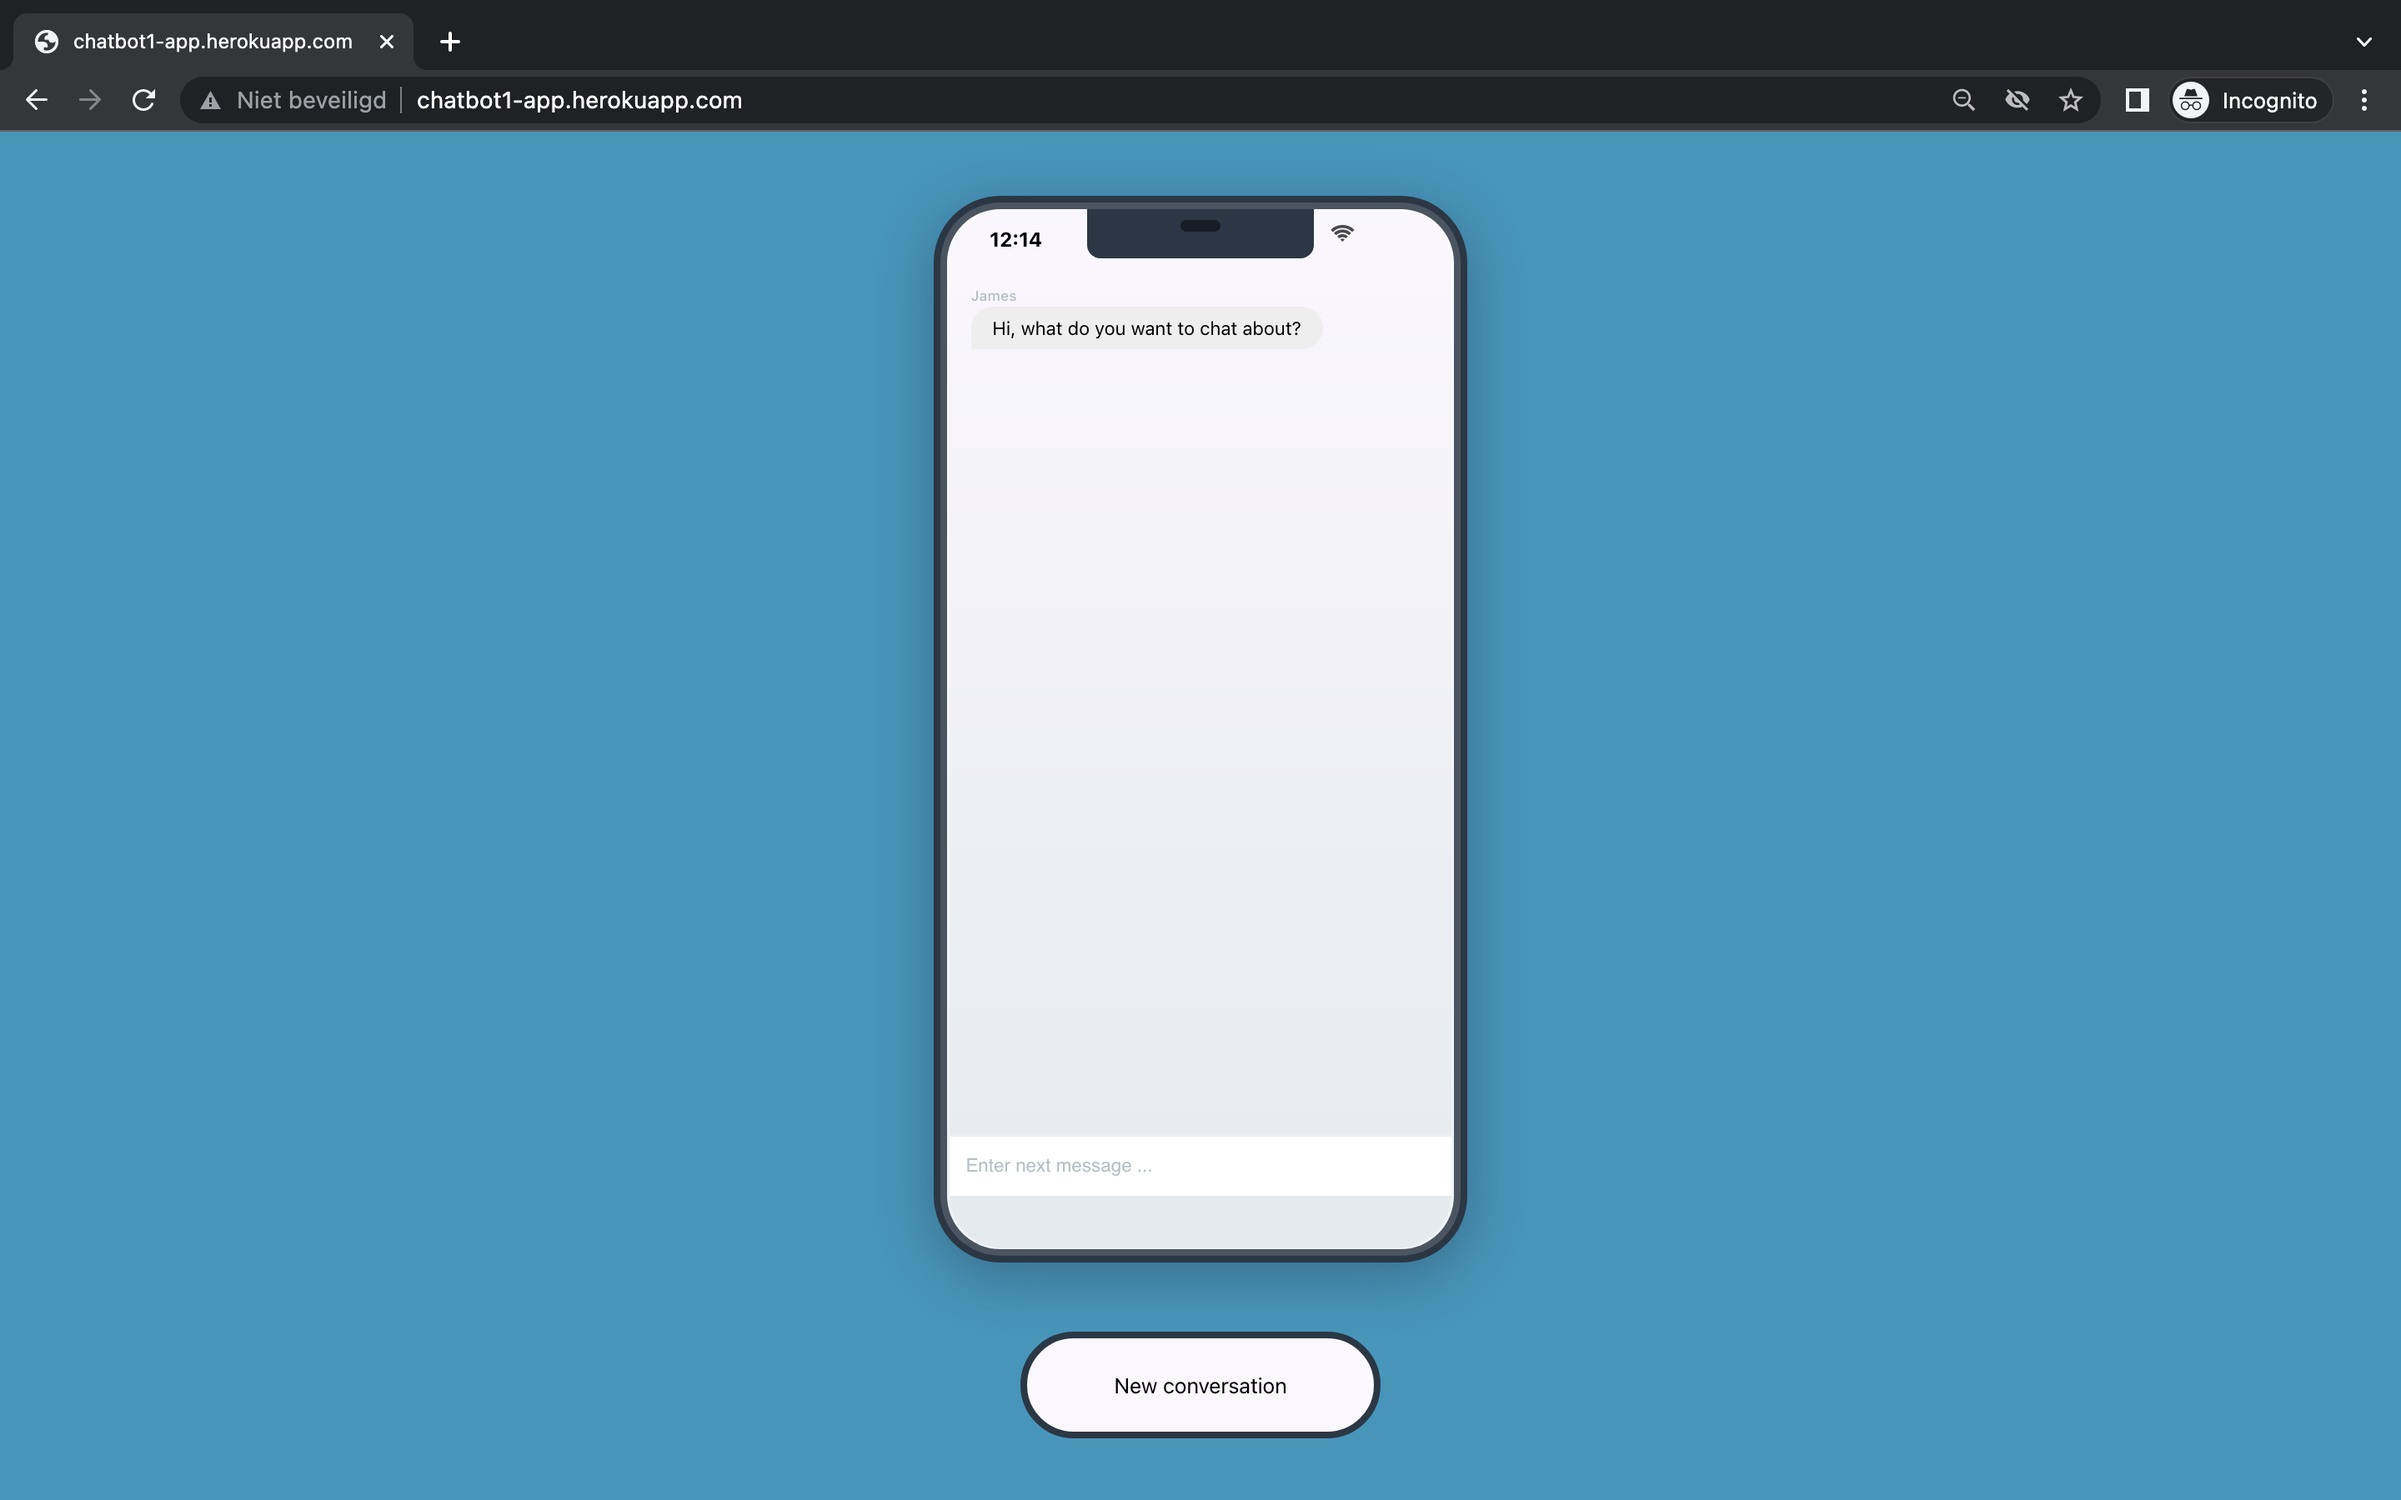
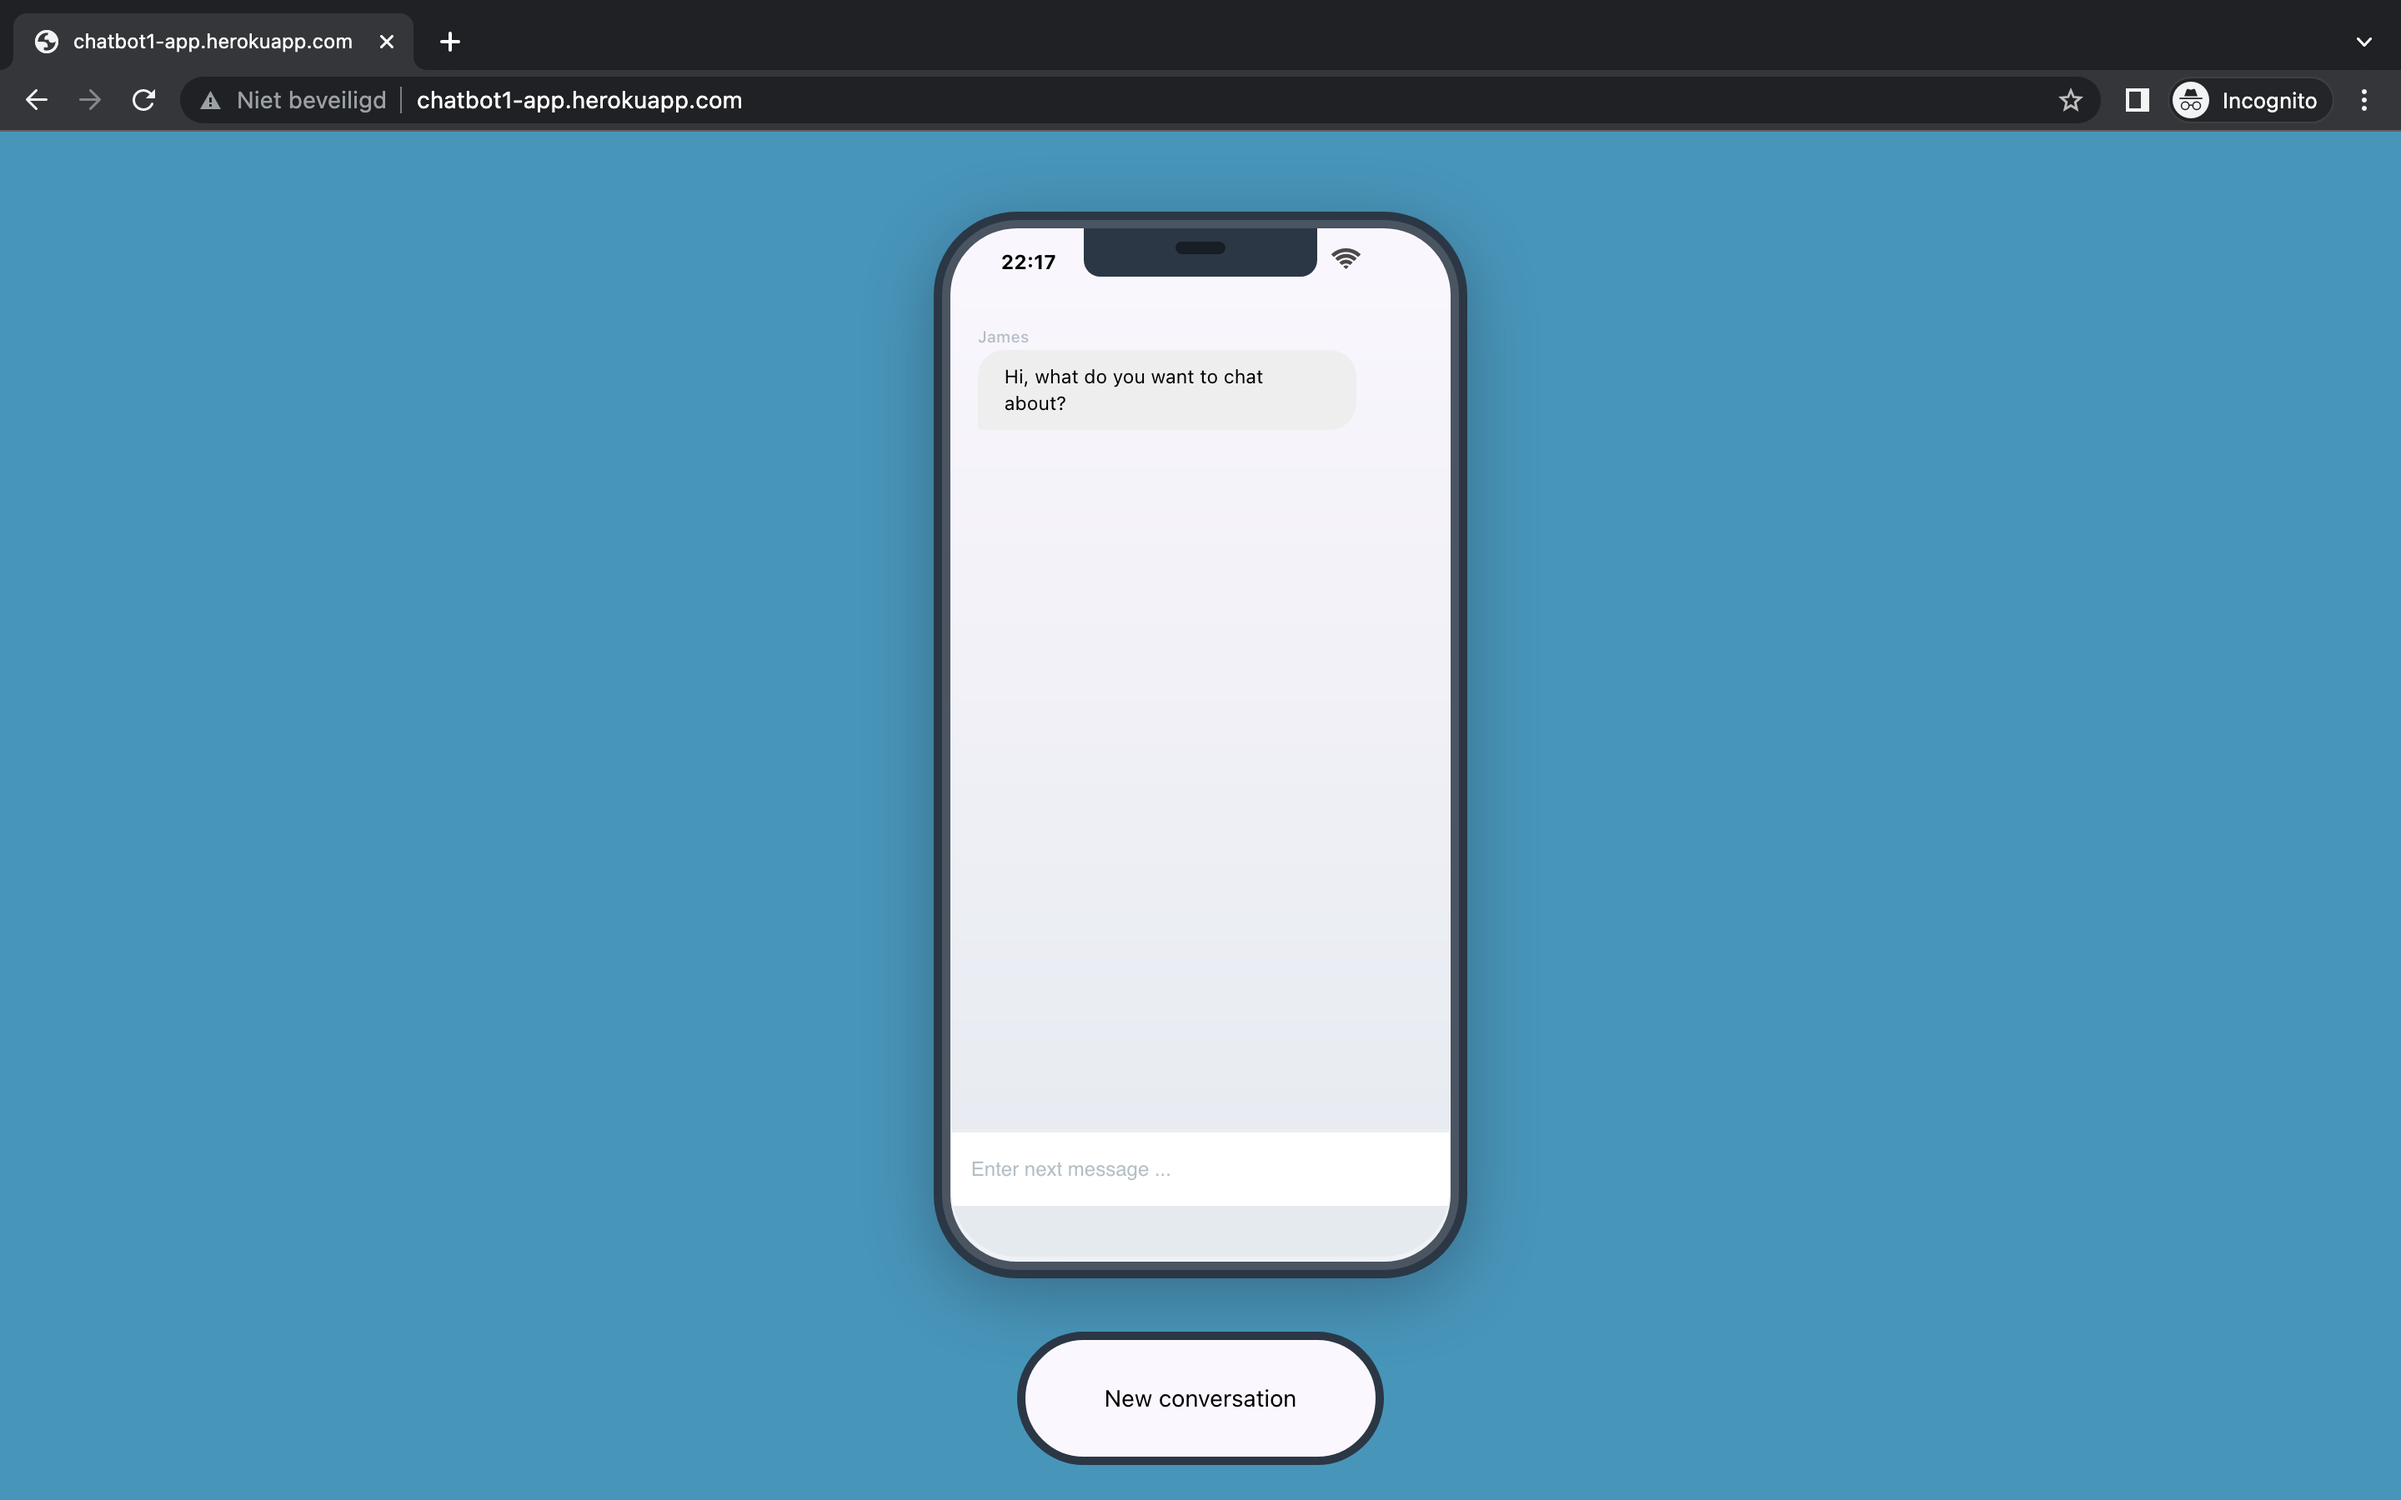
working dates

diff --git a/static/js/main.js b/static/js/main.js
@@ -75,8 +75,6 @@ $(function (){
 	
 	// RENDER METHODS
 	function renderData () {
-		var _now = $.now();
-		getDateTime(_now);
 		var userID = 'You';
 		var parentString = '<div class="chatbox" id="'+userID+'">'+
              '<div class="top-bar">'+
@@ -102,7 +100,7 @@ $(function (){
                 '<div class="msg ' + _cl +'">'+
                 '<span class="partner">'+ chat.from +'</span>'+
                 chat.msg +
-                '<span class="time">' + getDateTime (chat.time) + '</span>'+
+                '<span class="time">' + getDateTime(chat.time) + '</span>'+
                 '</div></li>';
             if (chat.from == 'James' && chat.time == _json.chats.slice(-1)[0].time){
                 demo(userID = userID, dataString = dataString)
@@ -130,7 +128,7 @@ $(function (){
 			.append('<li><div class="msg '+_cl+'">'+
 					  '<span class="partner">'+ data.from +'</span>'+
 					  data.msg +
-					  '<span class="time">' + getDateTime (data.time) + '</span>'+
+					  '<span class="time">' + getDateTime(data.time) + '</span>'+
 					  '</div>'+
 					  '</li>');	
 	}
@@ -153,17 +151,18 @@ $(function (){
 	}
 	
 	// HELPER FUNCTION
-	function getDateTime (t) {
+	function getDateTime(t) {
 		var month 	= ['Jan', 'Feb', 'Mar', 'Apr', 'May', 'Jun', 'Jul', 'Aug', 'Sep', 'Oct', 'Nov', 'Dec'];	
-		var d 		= new Date(t/1000),
-			 month 	= (month[d.getMonth()]),
-			 day 		= d.getDate().toString(),
-			 hour 	= d.getHours().toString(),
-			 min 		= d.getMinutes().toString();
+		var d 		= new Date(+t);
+        var month2 	= (month[d.getMonth()]);
+        var day 	= d.getDate().toString();
+        var hour 	= d.getHours().toString();
+        var min 	= d.getMinutes().toString();
 		(day.length < 2) ? day = '0' + day : '';
 		(hour.length < 2) ? hour = '0' + hour : '';
-		(min.length < 2) ? min = '0' + min : '';		
-		var res = ''+month+' '+day+' '+hour+ ':' + min;
+		(min.length < 2) ? min = '0' + min : '';
+        console.log(d)
+		var res = ''+month2+' '+day+' '+hour+ ':' + min;
 		return res;
 	}
 	
@@ -195,9 +194,6 @@ $(function (){
 			} else {
 				$('#viewport .chats ul>li.pending').remove();
 			}
-            // for (temp in _json.chats){
-            //     newMsgRender (temp);
-            // }
 
 		}
 	});	

diff --git a/main.py b/main.py
@@ -10,10 +10,11 @@ current_messages = {
 		"chats": [{
 			"from": 'James',
 			"msg": 'Hi, what do you want to chat about?',
-			"time": '1533263925814',
 			"action": ''
 		}]
 	}
+current_messages['chats'][0]['time'] = str(round(time.time()*1000))
+print(str(round(time.time()*1000)), flush=True)
 API_TOKEN = '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'
 # Define query function
 def query(payload, model_id, api_token):
